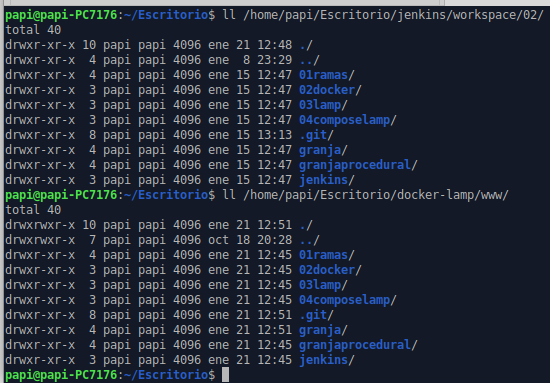
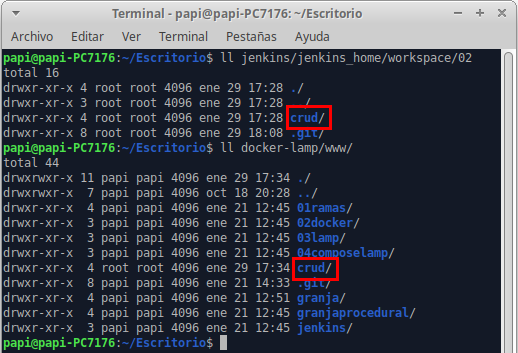
correccion

diff --git a/jenkins/02/freestyle_job.md b/jenkins/02/freestyle_job.md
@@ -1,13 +1,34 @@
 # Freestyle job - despliegue web/git  
 ***
 Crear un job de Jenkins que descargue el código de un proyecto web alojado en tu repositorio de github.  
-El job debe contactar con el repositorio y descargarse el proyecto web. Una vez descargado se debe copiar el proyecto web en la carpeta www de tu servidor Apache de prácticas anteriores.  
+El job debe contactar con el repositorio y descargarse el proyecto web **(se hace automáticamente)**.  
+Una vez descargado se debe **copiar** el proyecto web en la carpeta www de tu servidor Apache de prácticas anteriores.  
 Documentar gráficamente los pasos seguidos, así como detallar brevemente los pasos  y problemas encontrados.  
 
-El truco está en conectar la carpeta /home/papi/Escritorio/docker-lamp/www del servidor web Apache con el workspace del nuevo job /var/jenkins_home/workspace/02 mediante un volumen.  
-Arrancamos jenkins mediante el siguiente comando:  
-```docker run -p 8080:8080 -p 50000:50000 -v /home/papi/Escritorio/jenkins:/var/jenkins_home -v /etc/passwd:/data/passwd:ro -v /home/papi/Escritorio/docker-lamp/www:/var/jenkins_home/workspace/02 --name jenkins jenkins/jenkins:lts```  
+docker-compose.yml para conectar carpetas mediante volúmenes:
+```
+version: "3"
 
+services:
+  jenkins:
+    user: root
+    image: jenkins/jenkins:lts
+    container_name: jenkins
+    ports:
+      - "8080:8080"
+    volumes:
+      - ./jenkins_home:/var/jenkins_home
+      - /etc/passwd:/data/passwd:ro
+      - ../docker-lamp/www:/www
+      - /usr/local/bin/docker:/usr/bin/docker
+      - /var/run/docker.sock:/var/run/docker.sock
+    networks:
+      - mynet
+    
+networks:
+  mynet:
+    driver: bridge
+```  
 Creamos el job **02** de tipo estilo libre.  
 1. Configuramos el origen del código fuente **Git**  
 ![](./img/Captura%20de%20pantalla_2024-01-21_13-59-08.png)  
@@ -15,7 +36,8 @@ Creamos el job **02** de tipo estilo libre.
 ![](./img/Captura%20de%20pantalla_2024-01-21_14-04-20.png)  
 3. Comprobamos que la rama del repositorio es correcta.  
 ![](./img/Captura%20de%20pantalla_2024-01-21_14-06-55.png)  
-4. Para que se descargue el repositorio añadimos una Acción para ejecutar después de tipo Git Publisher -> Push Only If Build Succeeds  
+4. Añadimos un Build Step de tipo Ejecutar linea de comandos (shell) e introducimos el código para copiar el repositorio descargado a la carpeta www del servidor Apache.   
 ![](./img/Captura%20de%20pantalla_2024-01-21_14-19-35.png)  
-5. Tras guardar el job y ponerlo en marcha podemos comprobar que el contenido de ambas carpetas es el mismo.
+5. Tras guardar el job y ponerlo en marcha podemos comprobar que la carpeta crud del repositorio se descargó al workspace 02 y se copió en la carpeta www del servidor Apache.  
+No dió error al copiar gracias al volumen /var/run/docker.sock:/var/run/docker.sock, o al menos eso creo.  
 ![](./img/Captura%20de%20pantalla_2024-01-21_14-29-26.png)  
